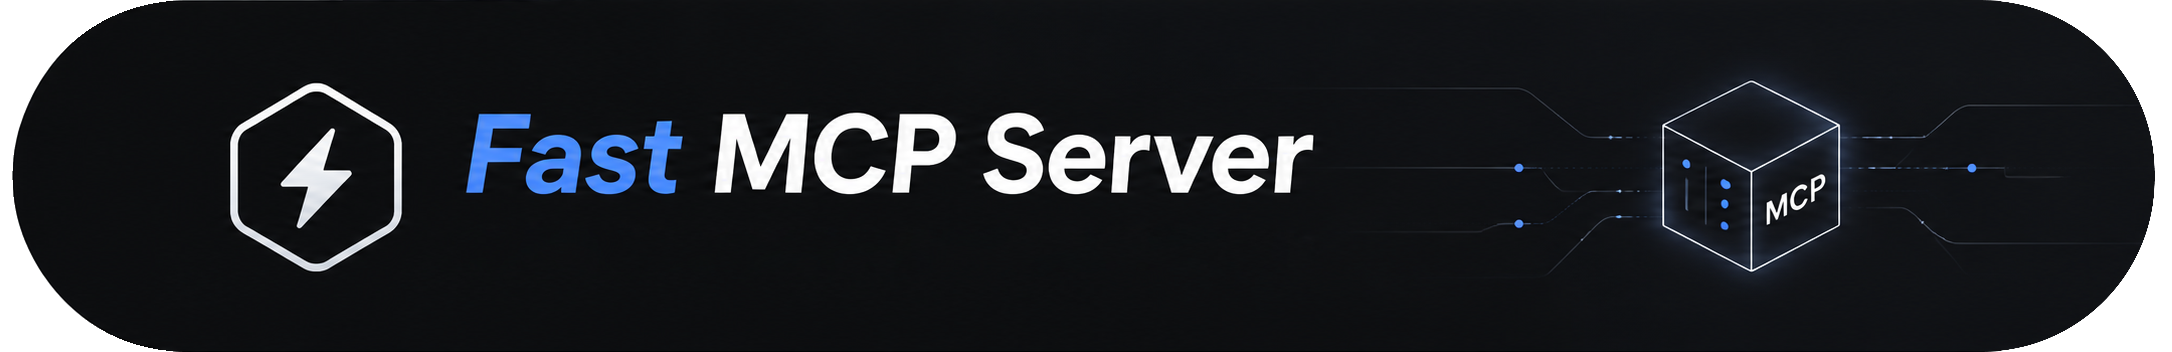
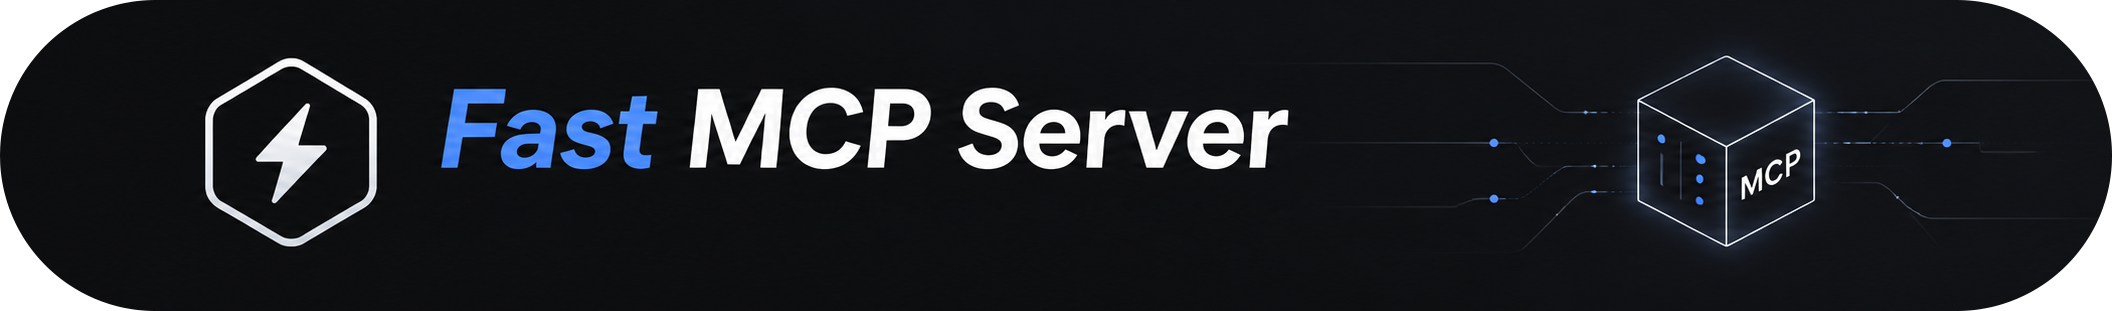
update

diff --git a/README.md b/README.md
@@ -1,5 +1,3 @@
-<h1>Fast MCP Server</h1>
-
 
 <div align="center">
 